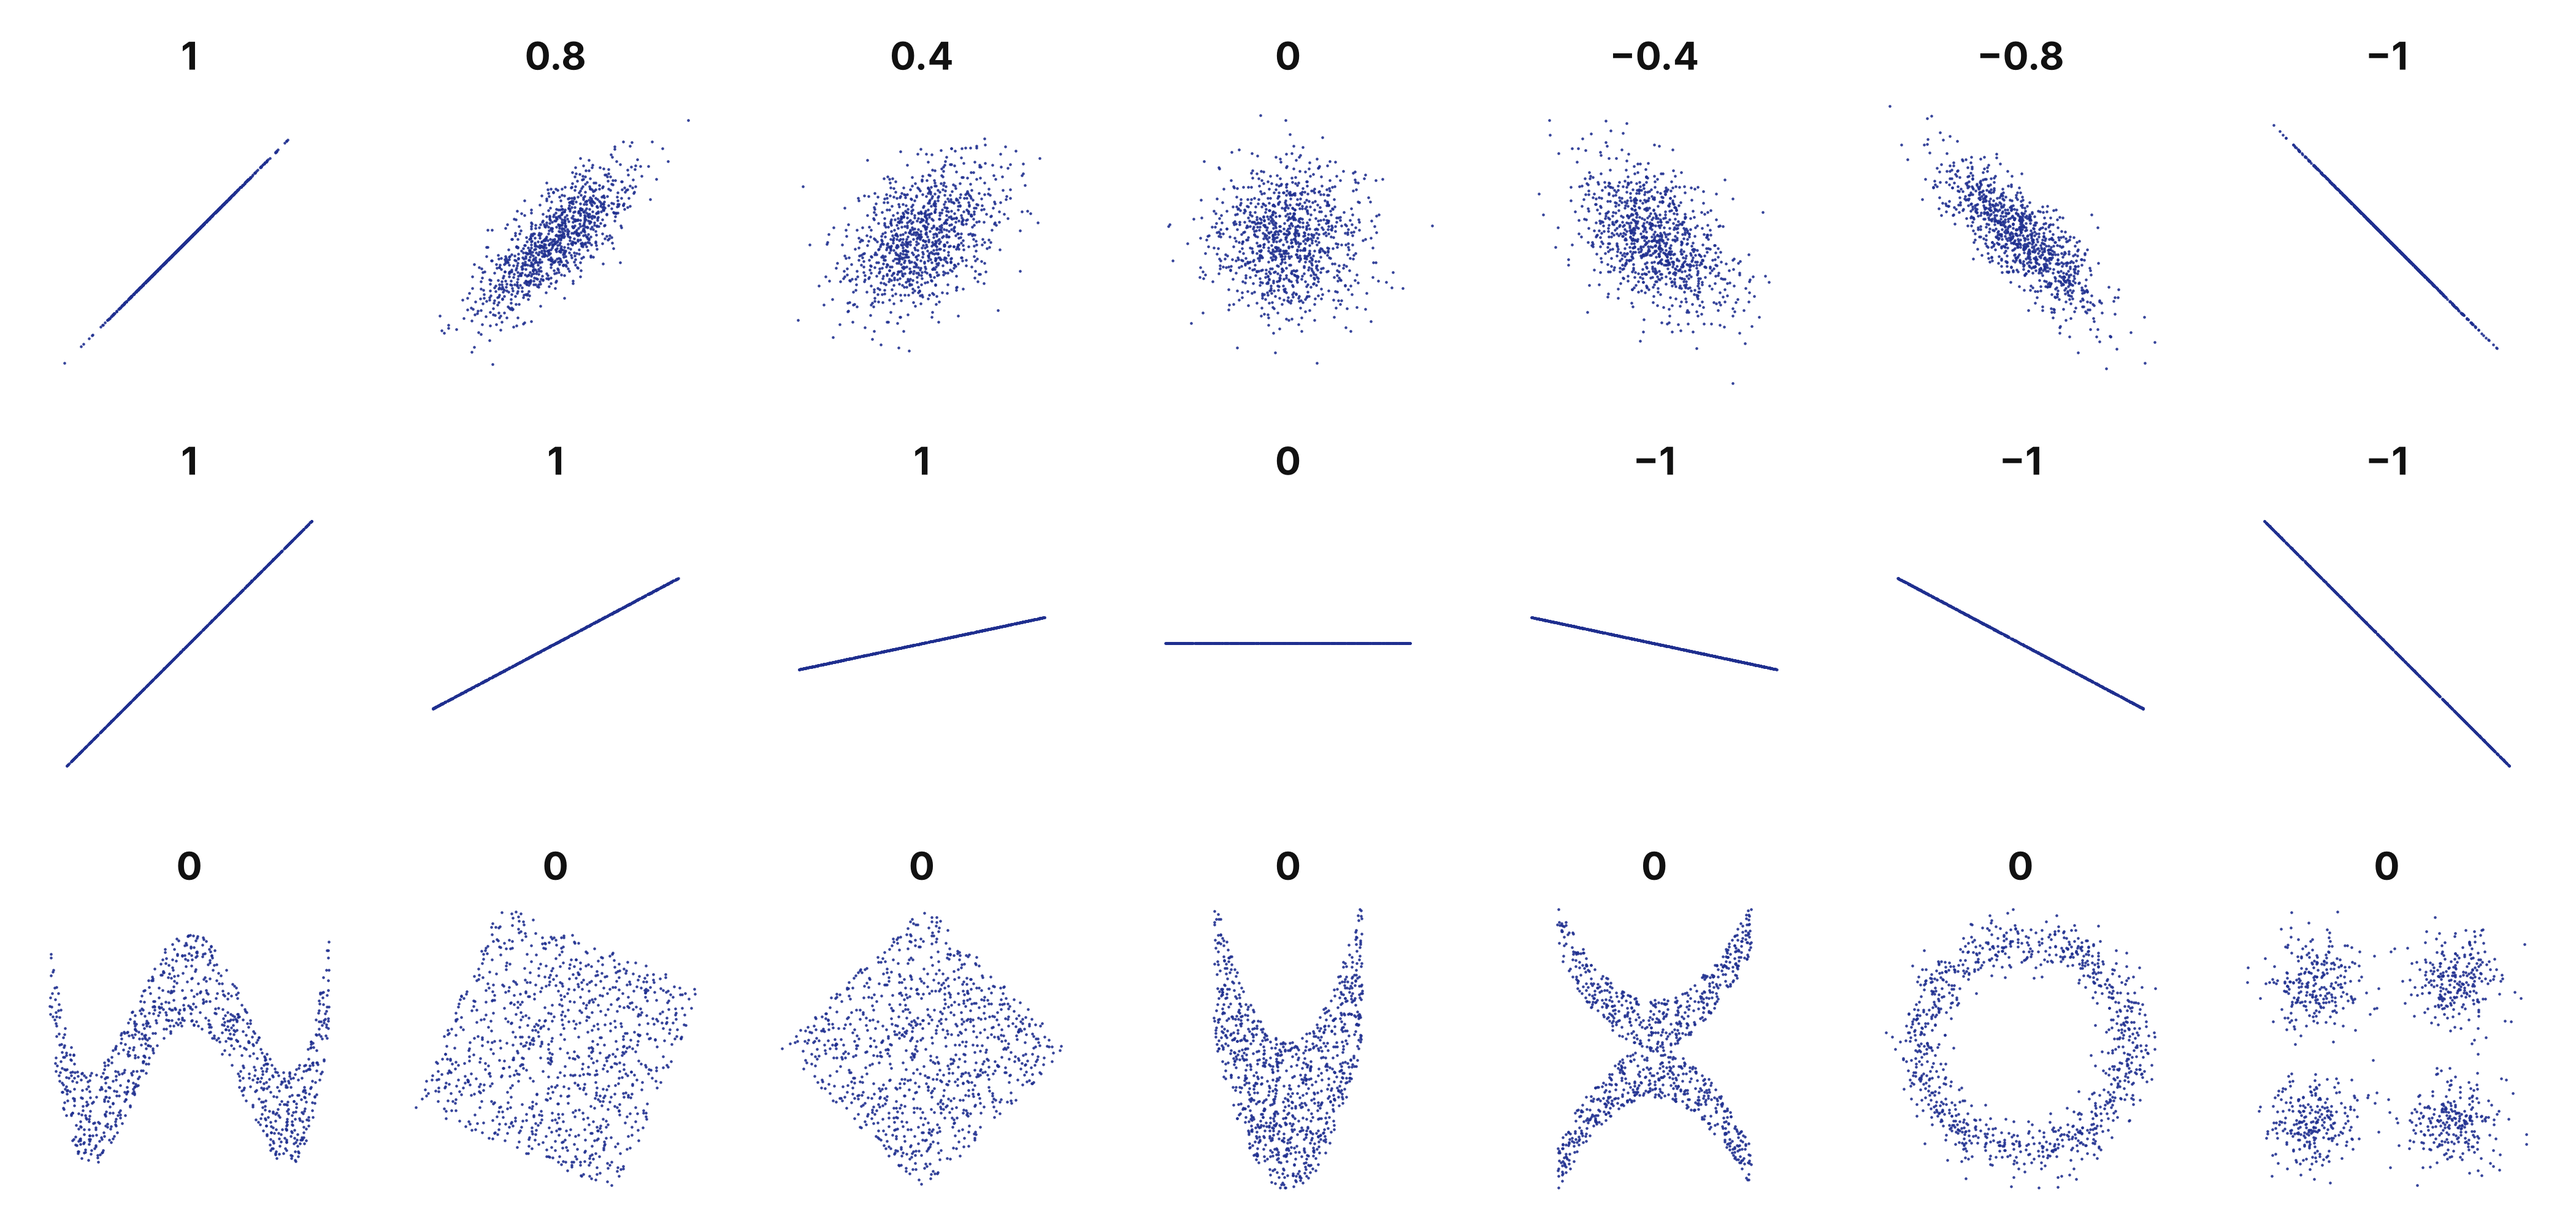
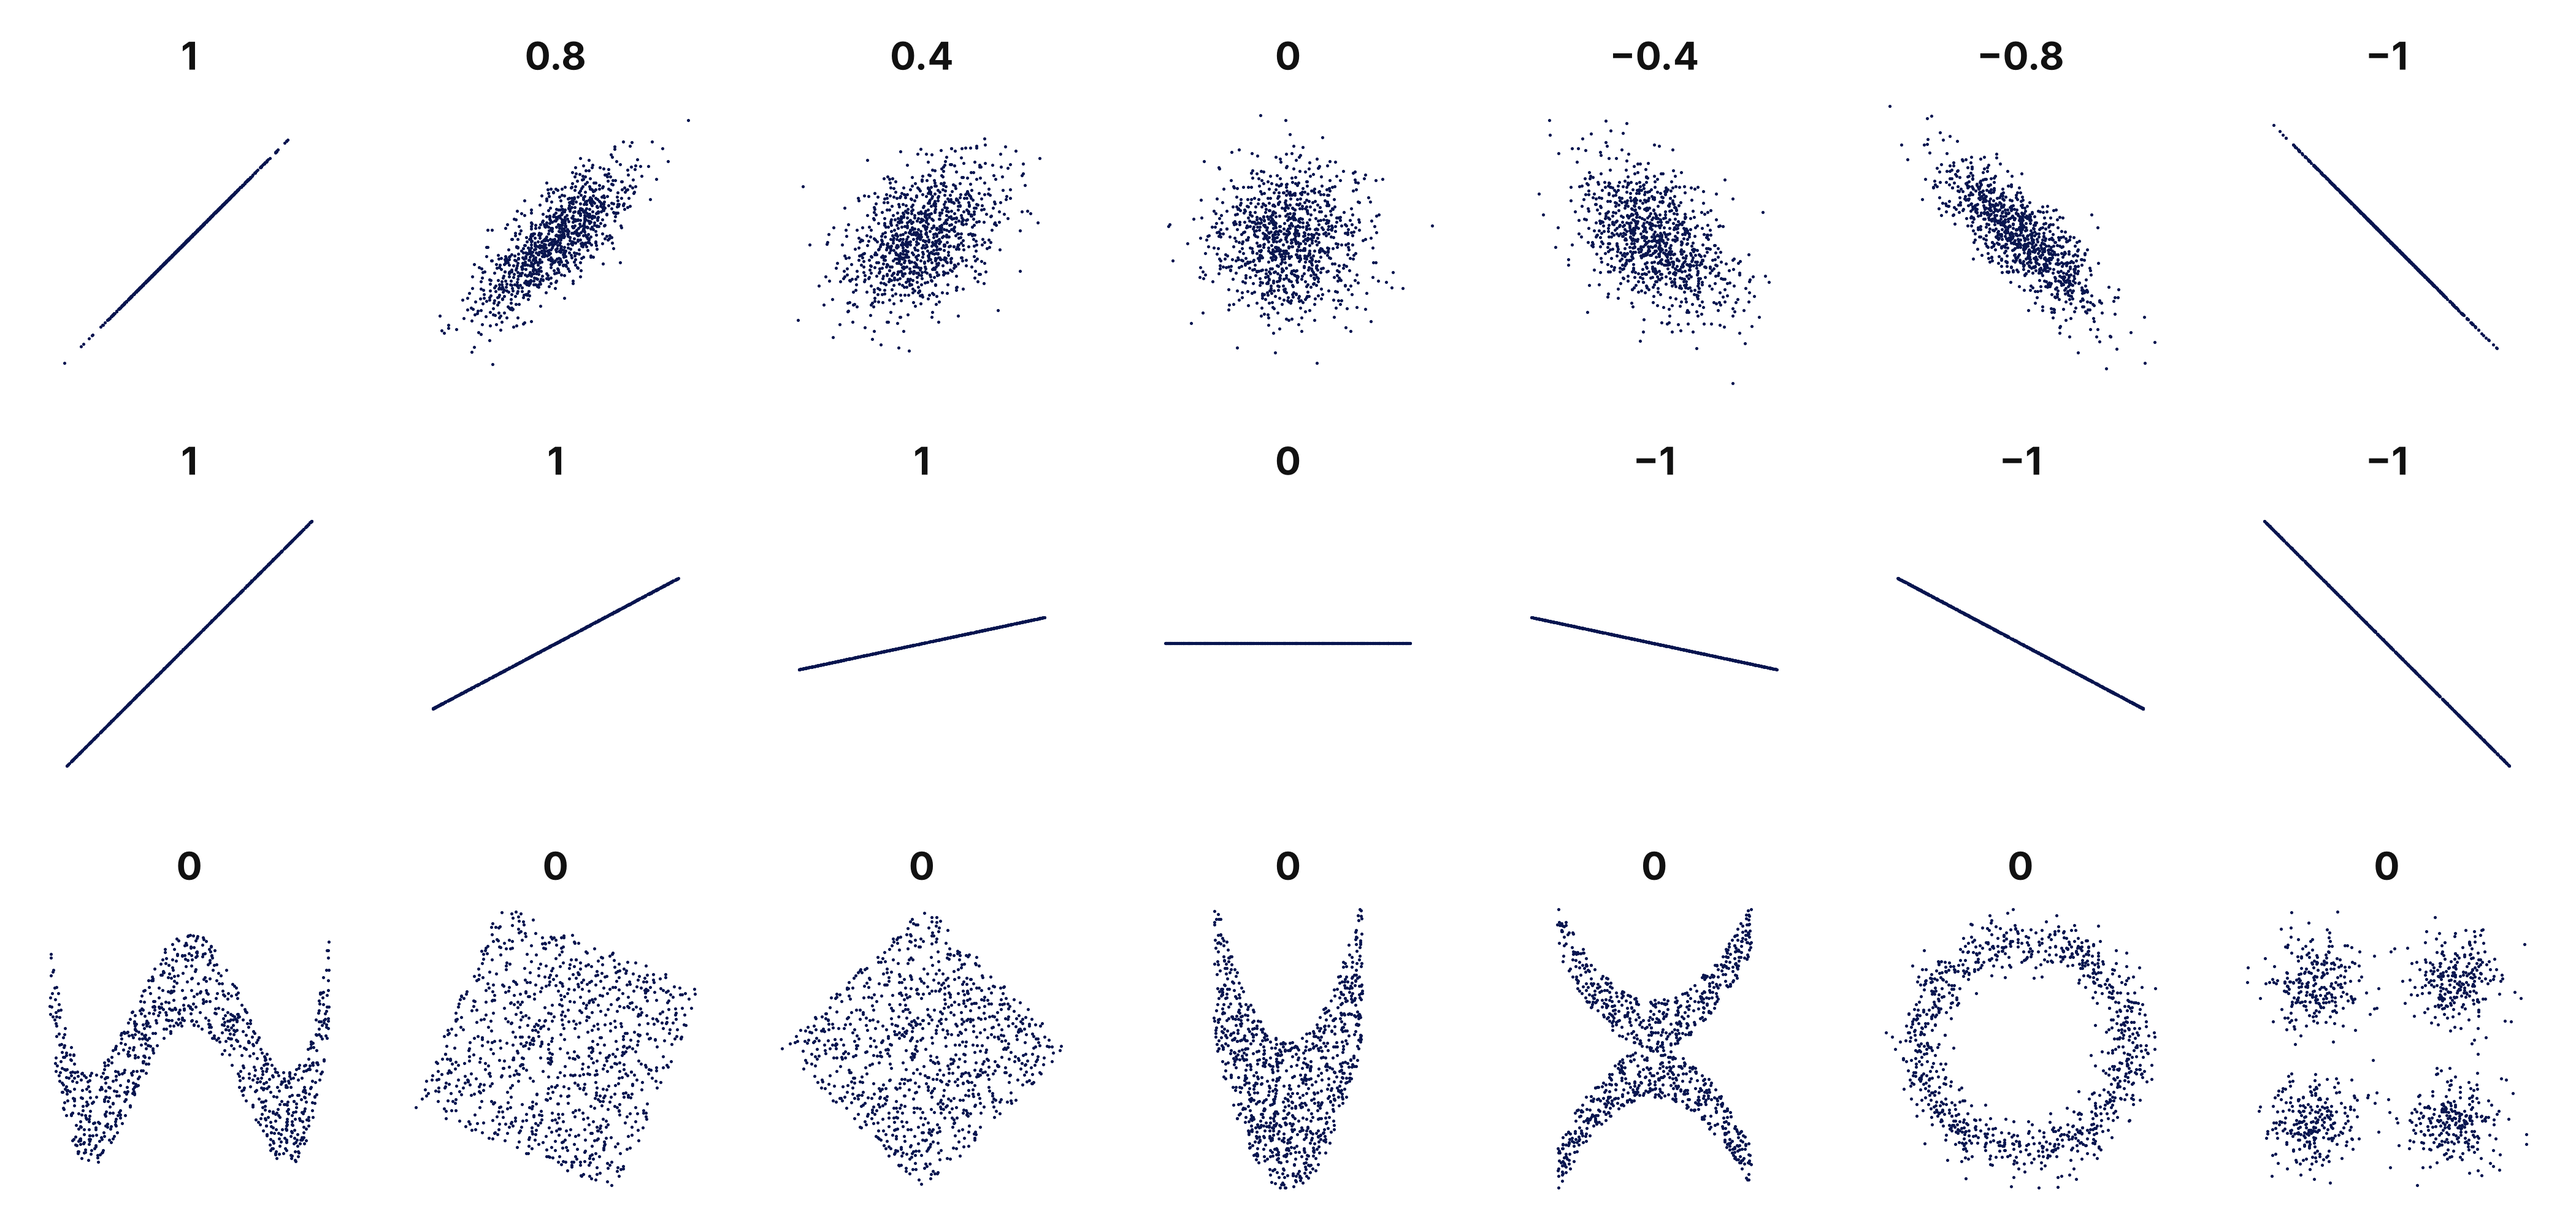
تغميق لون النقاط في رسمة لوحات الانتشار
Claude-Session: https://claude.ai/code/session_01P2W4DViX2DDJL3Qd7qfdx4

diff --git a/tools/statistics/corr_fig.py b/tools/statistics/corr_fig.py
@@ -2,7 +2,7 @@ import numpy as np, matplotlib, sys
 matplotlib.use('Agg')
 import matplotlib.pyplot as plt
 rng=np.random.default_rng(7)
-OUT=sys.argv[1]; C='#1f2f8f'
+OUT=sys.argv[1]; C='#08154f'
 n=1000
 def rot(x,y,t): c,s=np.cos(t),np.sin(t); return x*c-y*s, x*s+y*c
 row1=[];
@@ -28,7 +28,7 @@ fig,axs=plt.subplots(3,7,figsize=(14,6.6),dpi=300)
 for i,row in enumerate([row1,row2,row3]):
     for j,(x,y,lab,lim) in enumerate(row):
         ax=axs[i][j]
-        ax.scatter(x,y,s=1.2,c=C,linewidths=0,alpha=0.9)
+        ax.scatter(x,y,s=1.5,c=C,linewidths=0,alpha=1)
         if lim: ax.set_xlim(-lim,lim); ax.set_ylim(-lim,lim)
         else:
             mx=max(np.ptp(x),np.ptp(y))/2*1.1; cx=(x.max()+x.min())/2; cy=(y.max()+y.min())/2
